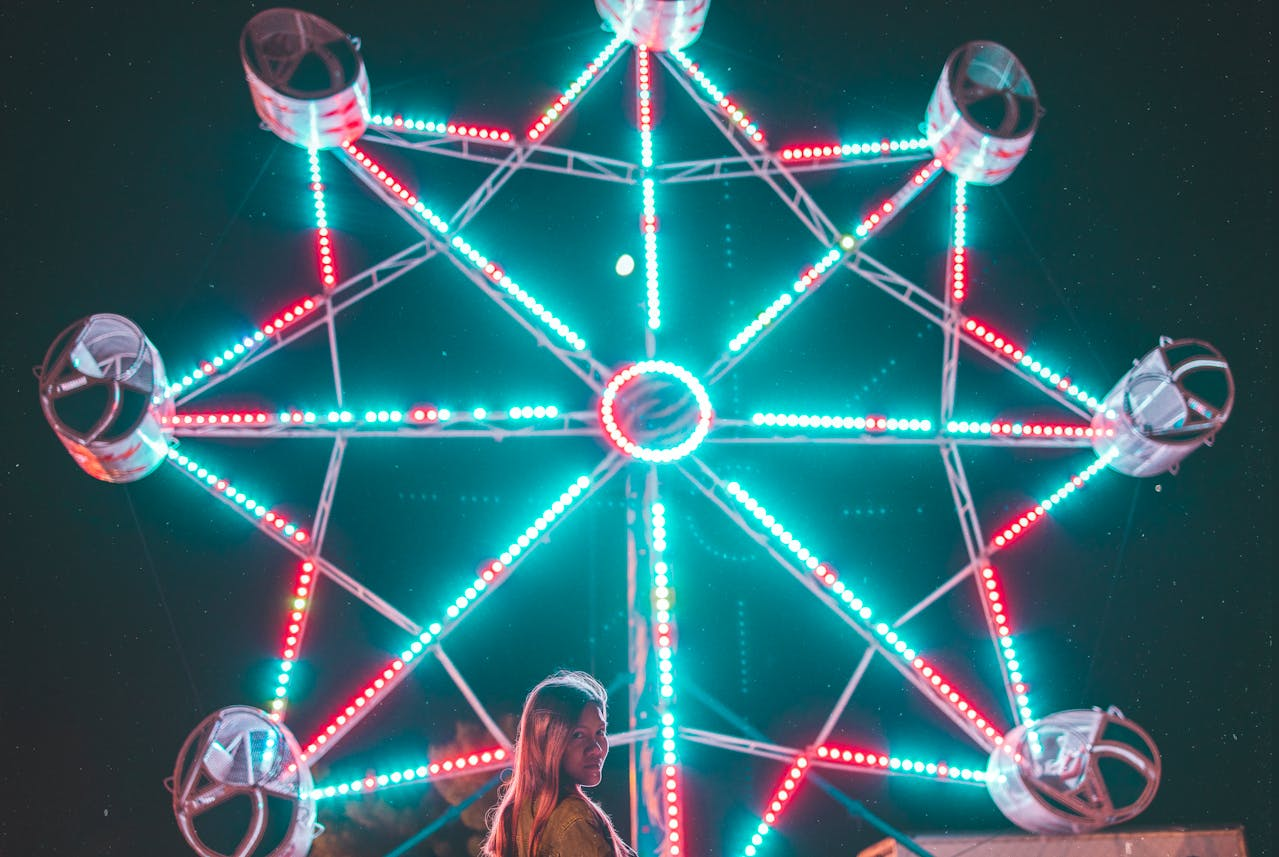
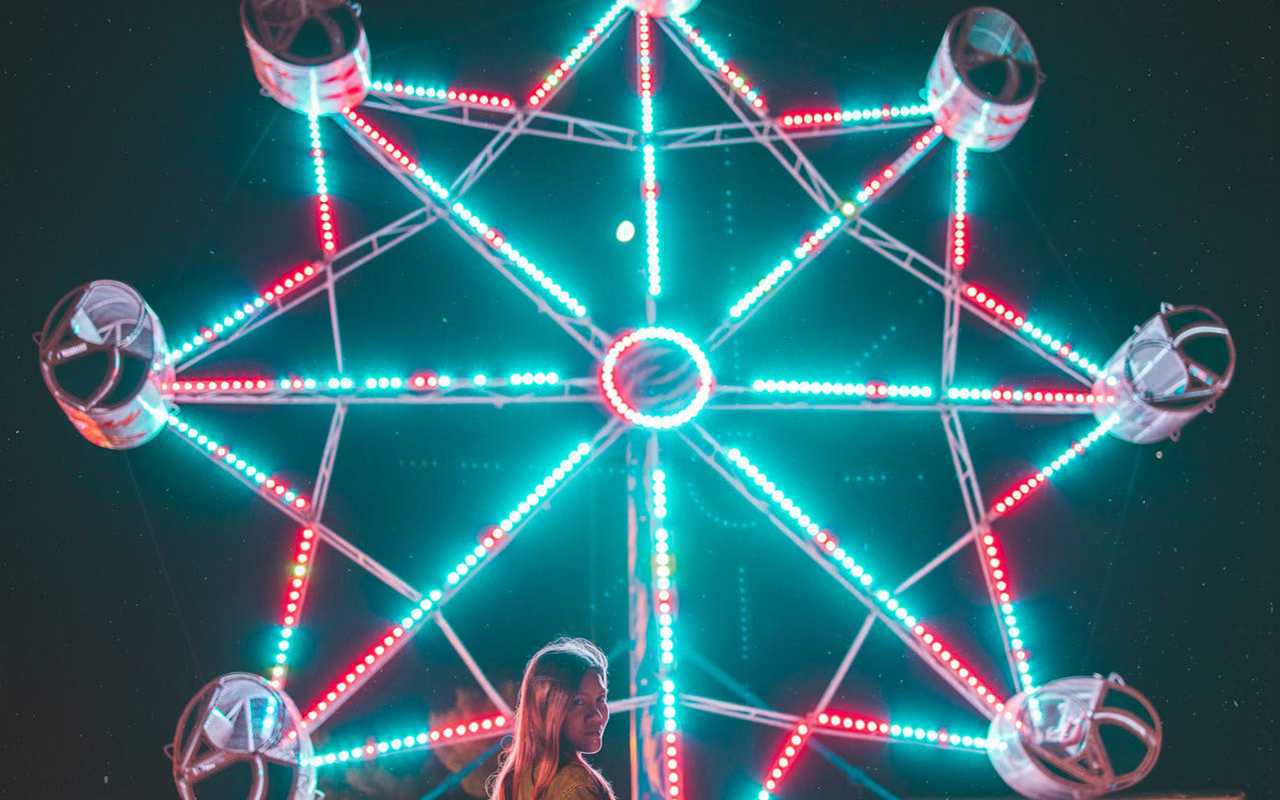
set explicit height and width on project images

diff --git a/dist/projects.html b/dist/projects.html
@@ -48,7 +48,7 @@
 						<li class="project" id="projectA">
 							<div class="project-header">
 								<h2>Example Project One</h2>
-								<img src="/pexels-pixabay-163064.c12faa26.jpg" alt="Play pieces on a game board">
+								<img src="/pexels-pixabay-163064.c12faa26.jpg" alt="Play pieces on a game board" width="1280" height="800">
 							</div>
 							<p class="project-description">
 								Lorem ipsum dolor sit amet, consectetur adipiscing elit, sed do
@@ -69,7 +69,7 @@
 						<li class="project" id="projectB">
 							<div class="project-header">
 								<h2>Example Project Two</h2>
-								<img src="/pexels-goumbik-296085.df9f8d6e.jpg" alt="Laptop on a stump in the forest">
+								<img src="/pexels-goumbik-296085.df9f8d6e.jpg" alt="Laptop on a stump in the forest" width="1280" height="800">
 							</div>
 							<p class="project-description">
 								Lorem ipsum dolor sit amet, consectetur adipiscing elit, sed do
@@ -90,7 +90,7 @@
 						<li class="project" id="projectC">
 							<div class="project-header">
 								<h2>Example Project Three</h2>
-								<img src="/pexels-clark-cruz-1064141-2911364.7c1197f1.jpg" alt="Ferris wheel at night">
+								<img src="/pexels-clark-cruz-1064141-2911364.7c1197f1.jpg" alt="Ferris wheel at night" width="1280" height="800">
 							</div>
 							<p class="project-description">
 								Lorem ipsum dolor sit amet, consectetur adipiscing elit, sed do

diff --git a/src/projects.html b/src/projects.html
@@ -67,6 +67,8 @@
 								<img
 									src="./img/pexels-pixabay-163064.jpg"
 									alt="Play pieces on a game board"
+									width="1280"
+									height="800"
 								/>
 							</div>
 							<p class="project-description">
@@ -91,6 +93,8 @@
 								<img
 									src="./img/pexels-goumbik-296085.jpg"
 									alt="Laptop on a stump in the forest"
+									width="1280"
+									height="800"
 								/>
 							</div>
 							<p class="project-description">
@@ -115,6 +119,8 @@
 								<img
 									src="./img/pexels-clark-cruz-1064141-2911364.jpg"
 									alt="Ferris wheel at night"
+									width="1280"
+									height="800"
 								/>
 							</div>
 							<p class="project-description">

diff --git a/dist/index.c92073ef.css b/dist/index.c92073ef.css
@@ -419,7 +419,17 @@ form .btn {
   margin-bottom: var(--margin-large);
 }
 
-.project-header, .project-description {
+.project-header {
+  margin-bottom: var(--margin-small);
+}
+
+.project-header img {
+  width: 100%;
+  max-width: 80rem;
+  height: auto;
+}
+
+.project-description {
   margin-bottom: var(--margin-small);
 }
 

diff --git a/src/css/style.css b/src/css/style.css
@@ -506,6 +506,12 @@ form .btn {
 	margin-bottom: var(--margin-small);
 }
 
+.project-header img {
+	width: 100%;
+	max-width: 80rem;
+	height: auto;
+}
+
 .project-description {
 	margin-bottom: var(--margin-small);
 }
